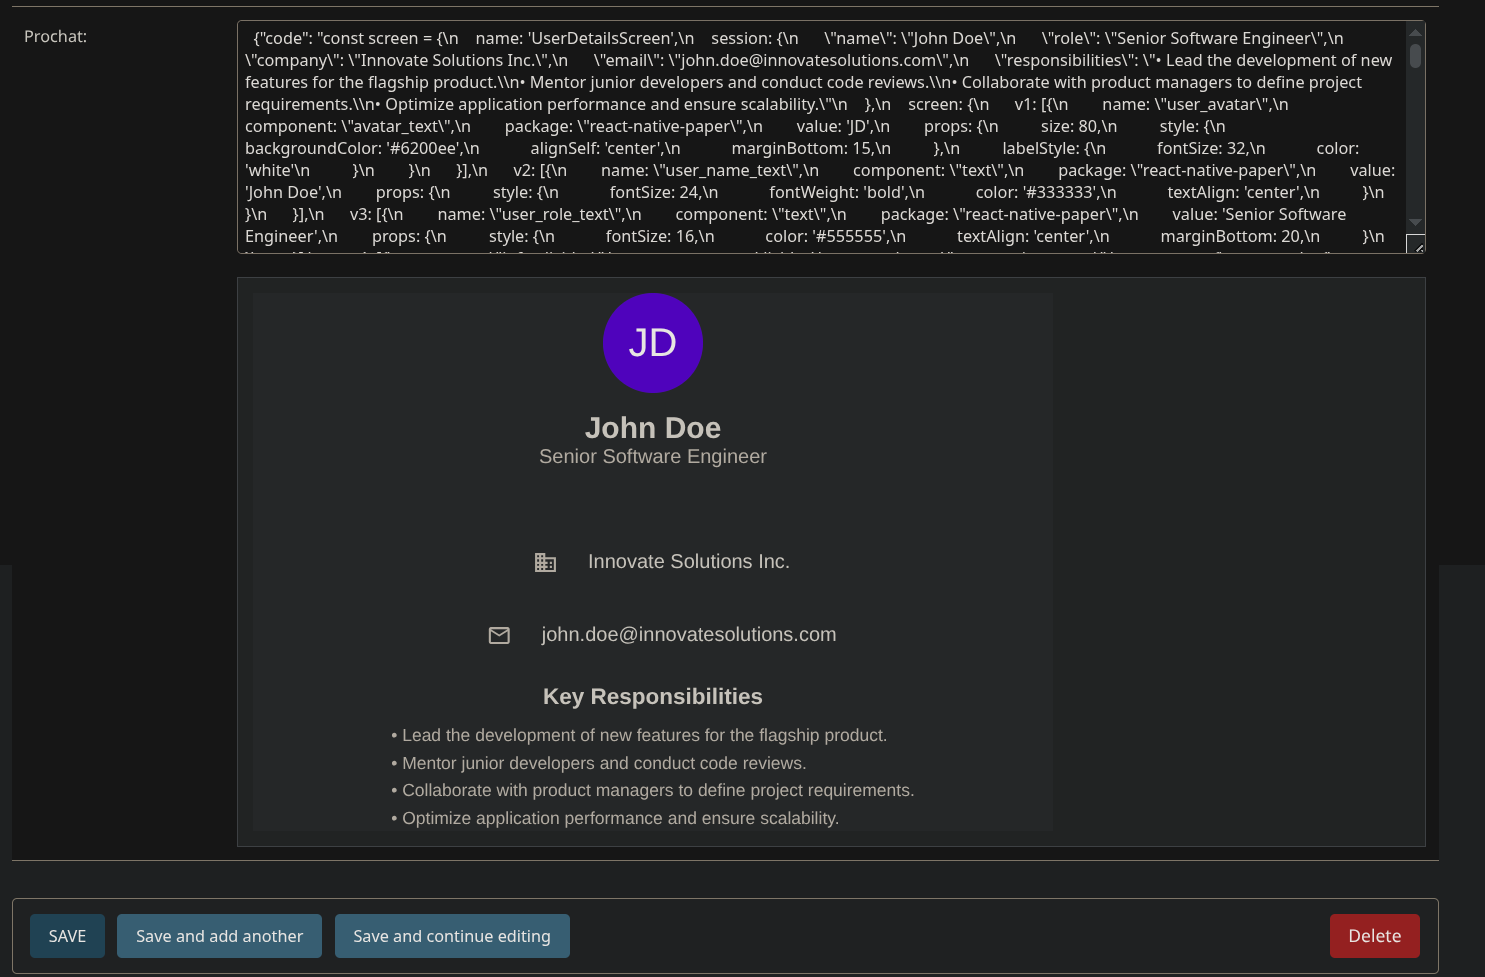
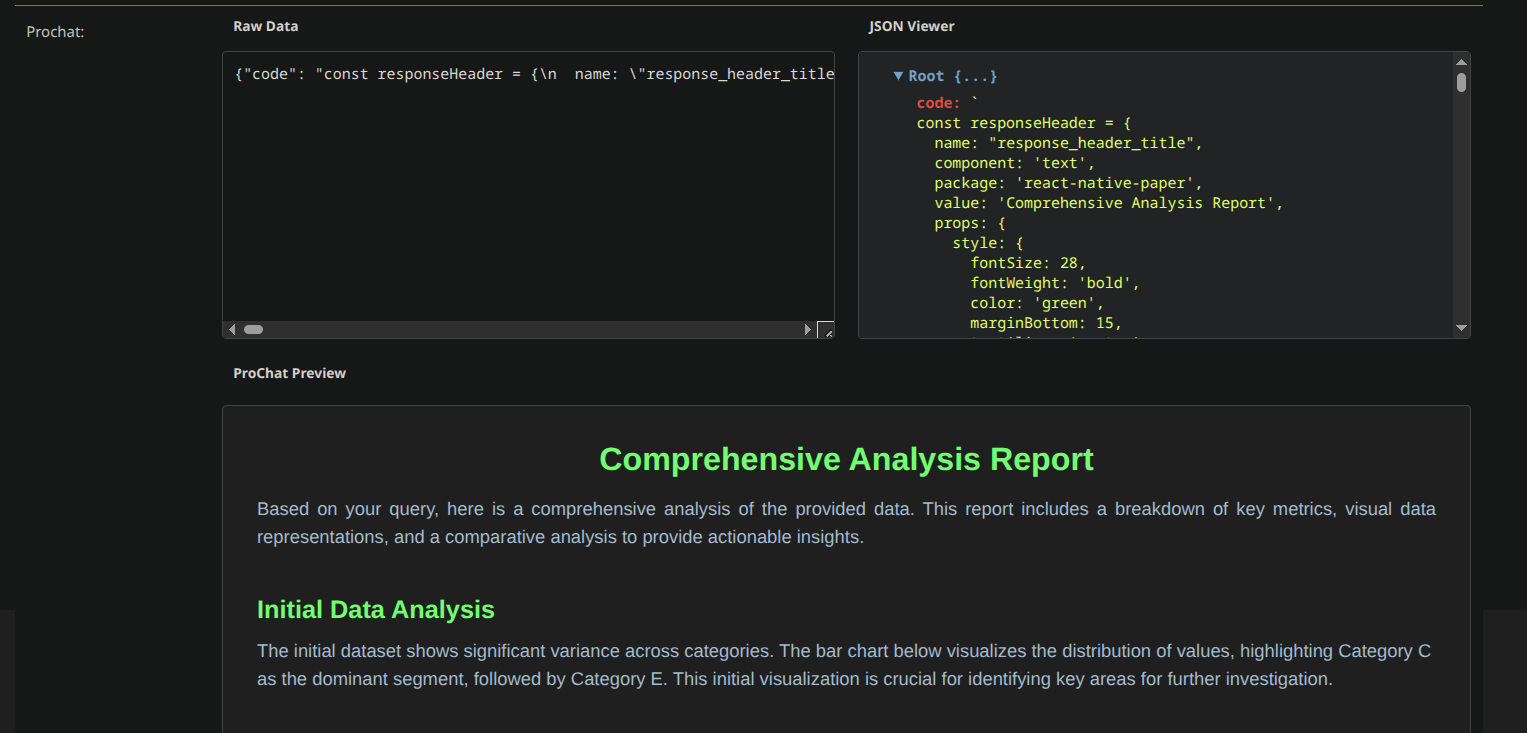
improved viewer

diff --git a/src/django_prochat/templates/django_prochat/widget.html b/src/django_prochat/templates/django_prochat/widget.html
@@ -2,16 +2,16 @@
 
   <div style="display: flex; gap: 20px; margin-bottom: 20px;">
 
-    <div style="flex: 1;">
-      <h4 style="margin: 0 0 10px 0;">Raw Data (Editable)</h4>
+    <div style="flex: 1; max-width: 50%;">
+      <h4 style="margin: 0 0 10px 0;">Raw Data</h4>
       <textarea class="prochat-raw-input" name="{{ widget.name }}" {% include "django/forms/widgets/attrs.html" %}
-        style="height: 250px; resize: vertical; width: 100%; font-family: monospace; padding: 10px; box-sizing: border-box; border: 1px solid #ccc; border-radius: 4px; overflow-y: auto; display: block;">{{ widget.value|default_if_none:"" }}</textarea>
+        style="height: 250px; resize: vertical; width: 100%; font-family: monospace; padding: 10px; box-sizing: border-box; border: 1px solid #ccc; border-radius: 4px; overflow-y: auto; display: block; white-space: pre;">{{ widget.value|default_if_none:"" }}</textarea>
     </div>
 
-    <div style="flex: 1;">
-      <h4 style="margin: 0 0 10px 0;">Collapsible JSON Viewer</h4>
+    <div style="flex: 1; max-width: 50%;">
+      <h4 style="margin: 0 0 10px 0;">JSON Viewer</h4>
       <div class="prochat-json-viewer"
-        style="background: #f8f8f8; padding: 10px; overflow-y: auto; border: 1px solid #ccc; font-family: monospace; border-radius: 4px; box-sizing: border-box;">
+        style="background: #f8f8f8; padding: 10px; overflow-y: auto; border: 1px solid #ccc; font-family: monospace; border-radius: 4px; box-sizing: border-box; overflow-wrap: break-word;">
       </div>
     </div>
 
@@ -45,14 +45,37 @@
       });
       resizeObserver.observe(rawInput);
     }
+
     function createCollapsibleTree(key, value) {
-      const isObj = value !== null && typeof value === 'object';
+      let actualValue = value;
+      let isStringifiedJson = false;
+
+      if (typeof value === 'string') {
+        const trimmed = value.trim();
+        if ((trimmed.startsWith('{') && trimmed.endsWith('}')) ||
+          (trimmed.startsWith('[') && trimmed.endsWith(']'))) {
+          try {
+            actualValue = JSON.parse(trimmed);
+            isStringifiedJson = true;
+          } catch (e) {
+          }
+        }
+      }
+
+      const isObj = actualValue !== null && typeof actualValue === 'object';
 
       if (!isObj) {
         const div = document.createElement('div');
         div.style.marginLeft = "20px";
-        div.style.padding = "2px 0";
-        div.innerHTML = `<strong style="color: #c82829;">${key}:</strong> <span style="color: #718c00;">${JSON.stringify(value)}</span>`;
+        div.style.padding = "4px 0";
+
+        let displayValue = typeof actualValue === 'string' ? JSON.stringify(actualValue) : String(actualValue);
+
+        if (typeof actualValue === 'string' && actualValue.includes('\\n')) {
+          displayValue = `\`\n${actualValue}\n\``;
+        }
+
+        div.innerHTML = `<strong style="color: #c82829;">${key}:</strong> <span style="color: #718c00; white-space: pre-wrap; word-break: break-all;">${displayValue}</span>`;
         return div;
       }
 
@@ -64,11 +87,13 @@
       summary.style.fontWeight = "bold";
       summary.style.color = "#4271ae";
       summary.style.padding = "2px 0";
-      summary.innerHTML = `${key} ${Array.isArray(value) ? '[...]' : '{...}'}`;
+
+      const typeLabel = isStringifiedJson ? ' <em style="color:#8e908c; font-weight:normal; font-size: 0.9em;">(Parsed String)</em>' : '';
+      summary.innerHTML = `${key}${typeLabel} ${Array.isArray(actualValue) ? '[...]' : '{...}'}`;
 
       details.appendChild(summary);
 
-      for (const [k, v] of Object.entries(value)) {
+      for (const [k, v] of Object.entries(actualValue)) {
         details.appendChild(createCollapsibleTree(k, v));
       }
 
@@ -79,10 +104,6 @@
       const rawData = JSON.parse(scriptTag.textContent);
       const parsed = typeof rawData === "string" ? JSON.parse(rawData) : rawData;
 
-      if (rawInput) {
-        rawInput.value = JSON.stringify(parsed, null, 4);
-      }
-
       if (jsonViewer) {
         const rootTree = createCollapsibleTree('Root', parsed);
         rootTree.open = true;
@@ -92,7 +113,7 @@
       const jsonData = parsed?.json;
 
       if (!jsonData) {
-        rootDiv.innerHTML = "<span style='color:red;'>Cannot find 'json' key in data.</span>";
+        rootDiv.innerHTML = "<span style='color:red;'>Cannot find 'json' key in data, or it is empty.</span>";
       } else if (typeof ProChat === 'undefined') {
         rootDiv.innerText = "ProChat library is missing";
         console.error("ProChat is not defined.");
